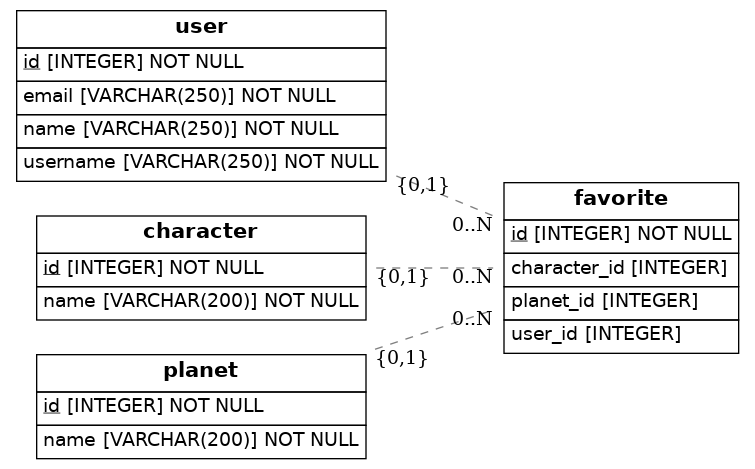
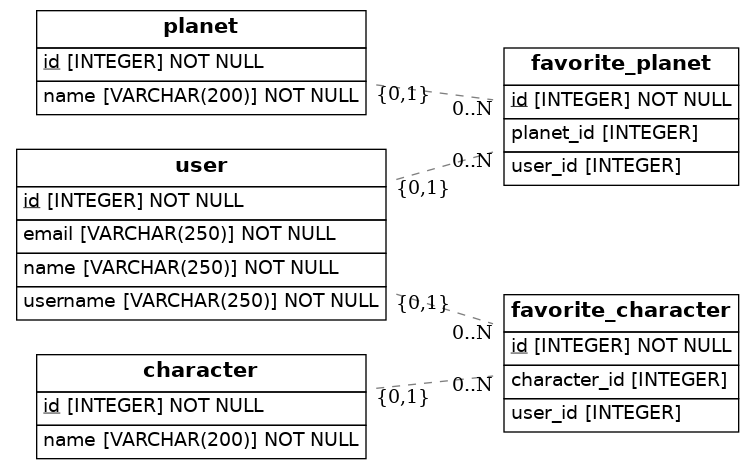
favorite_planet & favrite_character creaated

diff --git a/src/models.py b/src/models.py
@@ -24,17 +24,24 @@ class Planet(Base):
     id = Column(Integer, primary_key=True)
     name = Column(String(200), nullable=False)
 
-class Favorite(Base):
-    __tablename__ = 'favorite'
+class FavoritePlanet(Base):
+    __tablename__ = 'favorite_planet'
     id = Column(Integer, primary_key=True)
 
     user_id = Column(Integer, ForeignKey('user.id'))
     user = relationship(User)
 
-    planet_id = Column(Integer, ForeignKey('planet.id'), nullable=True)
+    planet_id = Column(Integer, ForeignKey('planet.id'))
     planet = relationship(Planet)
 
-    character_id = Column(Integer, ForeignKey('character.id'), nullable=True)
+class FavoriteCharacter(Base):
+    __tablename__ = 'favorite_character'
+    id = Column(Integer, primary_key=True)
+
+    user_id = Column(Integer, ForeignKey('user.id'))
+    user = relationship(User)
+
+    character_id = Column(Integer, ForeignKey('character.id'))
     character = relationship(Character)
 
     def to_dict(self):
